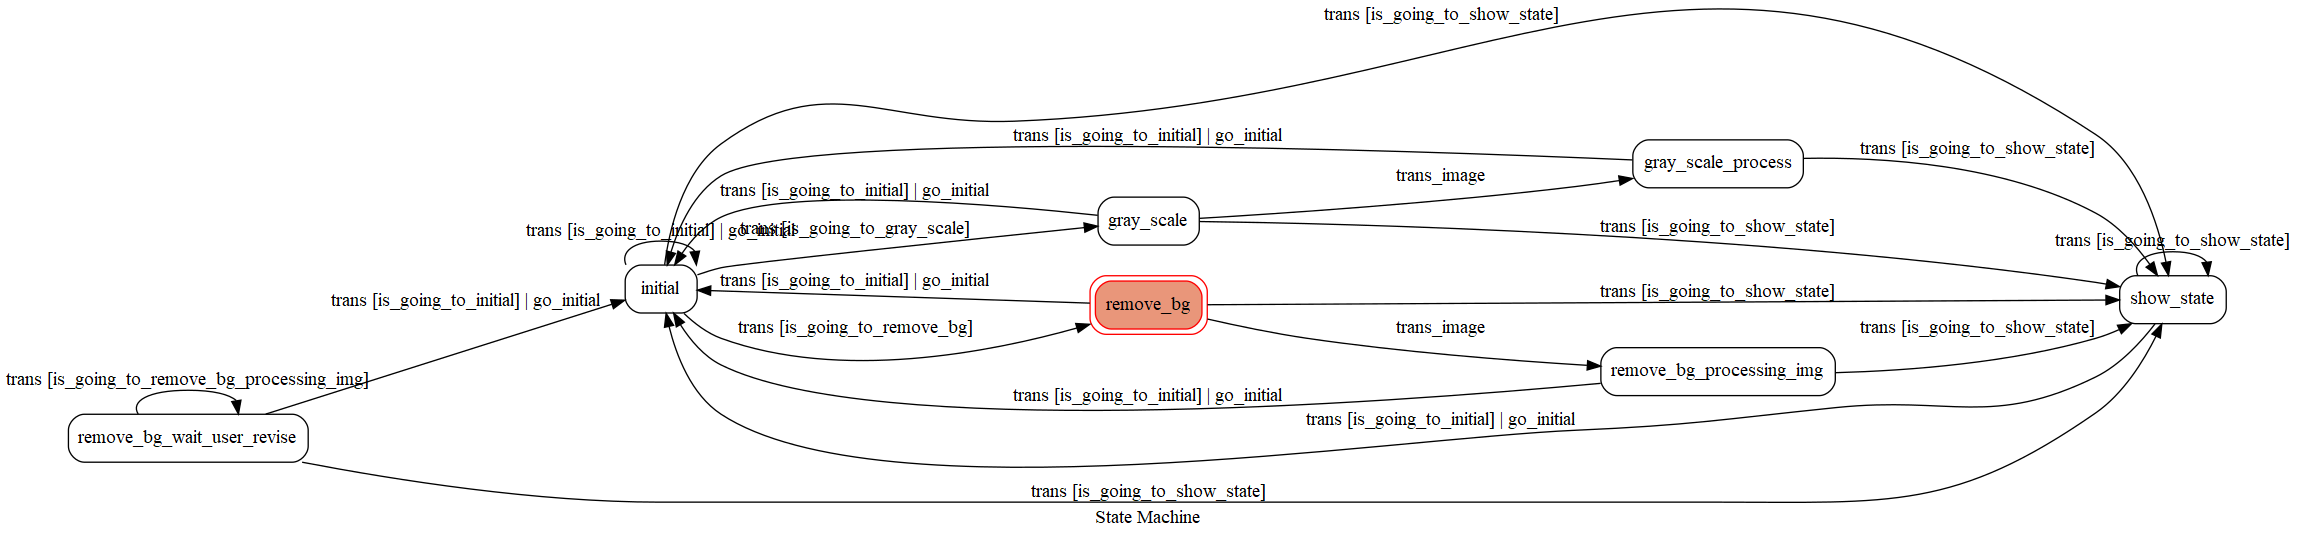
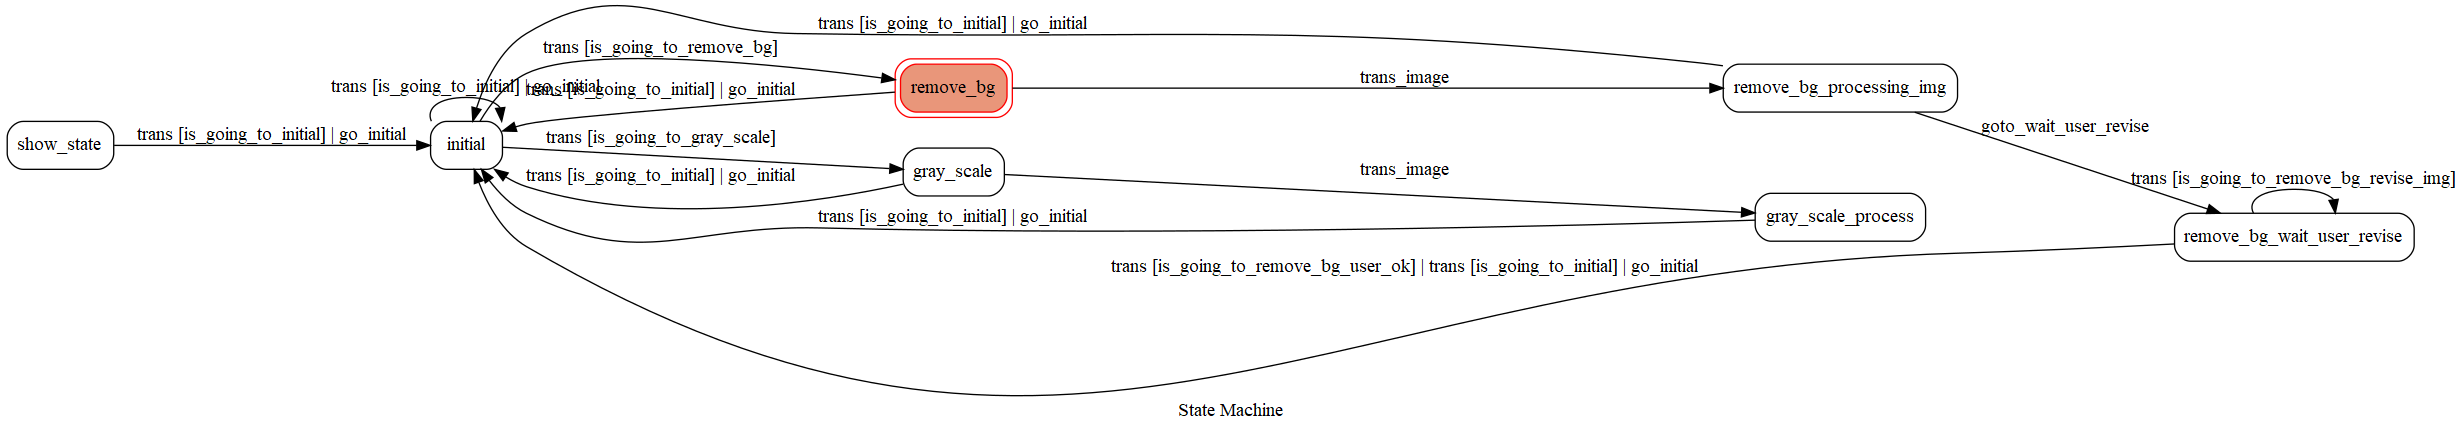
Revise remove_bg states

diff --git a/fsm.py b/fsm.py
@@ -34,19 +34,23 @@ class TocMachine(GraphMachine):
         text = event.message.text
         return text.strip().lower() == "gscale"
 
-    def is_going_to_remove_bg_wait_user_revise(self, event):
+    def is_going_to_remove_bg_revise_img(self, event):
         text = event.message.text
         if text.strip().lower() == "ok":
-            self.go_initial()
+            # self.go_initial()
             return False
         try:
-            val = int(text)
-            if self.remove_bg_contours == val:
-                return False
             self.remove_bg_contours = int(text)
             return True
         except:
             return False
+
+    def is_going_to_remove_bg_user_ok(self, event):
+        text = event.message.text
+        if text.strip().lower() == 'ok':
+            self.remove_bg_contours = None
+            return True
+        return False
 
     def on_enter_show_state(self, event):
         print(f"showing state: {self.machine.state}")
@@ -62,7 +66,12 @@ class TocMachine(GraphMachine):
         send_text_message(reply_token, "Send an image to process")
 
     def on_enter_remove_bg_processing_img(self, event):
-        # ImageEvent
+        # ImageEvent from remove_bg
+        # or MessageEvent from user reply revise
+        """
+            An short state, exit to wait_user_revise after image send,
+            this checks the self.remove_bg_contours to check if user have already processed a image
+        """
         print(f'handling remove bg image {event.message.id}')
         self.remove_bg_image_path = utils.save_event_image(event)
         print('image saved at:', self.remove_bg_image_path)
@@ -76,7 +85,21 @@ class TocMachine(GraphMachine):
         send_image(reply_token, utils.resolve_static_url(img_path))
         send_text_message(reply_token, 'Type ok if ok, Type number to remove more.')
 
-        self.trans()  # go to wait_user_revise
+        # self.trans()  # go to wait_user_revise
+        self.goto_wait_user_revise()  # go to wait_user_revise
+
+    def on_enter_remove_bg_wait_user_revise(self, event):
+        # dont do revise when first entering
+        # check the stored variable to see if this time is after user request revise
+        # message event, user reply the index.
+        if self.remove_bg_contours is None:
+            # this is the first enter right after processing, just send the result.
+            pass
+        else:
+            # user request to revise
+            pass
+
+
 
     def on_enter_gray_scale(self, event):
         print("I'm entering gray_scale")

diff --git a/app.py b/app.py
@@ -31,14 +31,26 @@ def new_machine():
             {
                 "trigger": "trans_image",
                 "source": "remove_bg",
-                "dest": "remove_bg_processing_img",
+                "dest": "remove_bg_processing_img",  # send the result, then move to wait_user_revise
             },
-            # from revise to processing, reprocess with user input number.
+            # from revise to processing, reprocess if user reply a number.
+            # return to initial if user says ok.
+            {
+                "trigger": "goto_wait_user_revise",
+                "source": "remove_bg_processing_img",
+                "dest": "remove_bg_wait_user_revise",
+            },
             {
                 "trigger": "trans",
                 "source": "remove_bg_wait_user_revise",
                 "dest": "remove_bg_wait_user_revise",
-                "conditions": "is_going_to_remove_bg_processing_img"
+                "conditions": "is_going_to_remove_bg_revise_img"
+            },
+            {
+                "trigger": "trans",
+                "source": "remove_bg_wait_user_revise",
+                "dest": "initial",
+                "conditions": "is_going_to_remove_bg_user_ok"
             },
             {
                 "trigger": "trans",
@@ -51,18 +63,20 @@ def new_machine():
                 "source": "gray_scale",
                 "dest": "gray_scale_process",
             },
+
+            # Connect all state to initial, make user able to abort any ongoing process.
             {
                 "trigger": "trans",
                 "source": states.copy(),
                 "dest": "initial",
                 "conditions": "is_going_to_initial",
             },
-            {
-                "trigger": "trans",
-                "source": states.copy(),
-                "dest": "show_state",
-                "conditions": "is_going_to_show_state",
-            },
+            # {
+            #     "trigger": "trans",
+            #     "source": states.copy(),
+            #     "dest": "show_state",
+            #     "conditions": "is_going_to_show_state",
+            # },
             {
                 "trigger": "go_initial",
                 "source": states.copy(),
